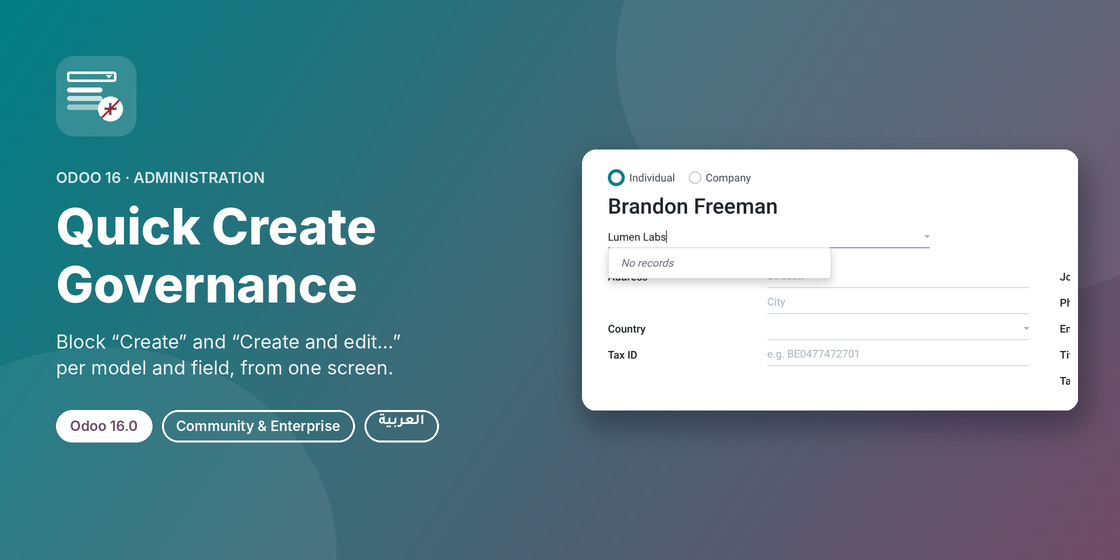
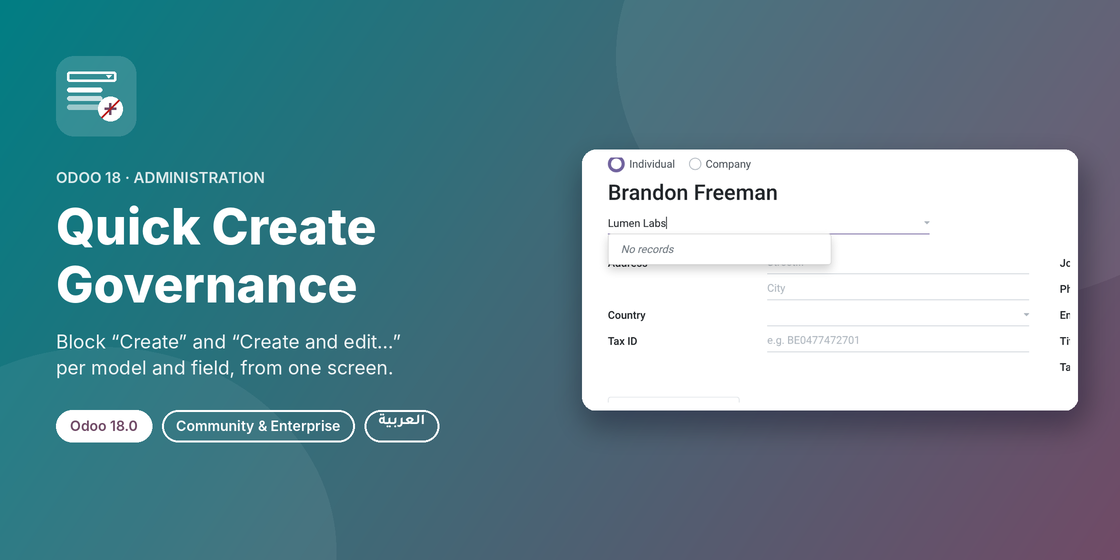
Add files via upload

diff --git a/quick_create_governance/static/description/index.html b/quick_create_governance/static/description/index.html
@@ -1,4 +1,4 @@
-<!-- Odoo Apps description page for quick_create_governance (Odoo 16.0). Inline styles only: apps.odoo.com strips <style> and <script> blocks. -->
+<!-- Odoo Apps description page for quick_create_governance (Odoo 18.0). Inline styles only: apps.odoo.com strips <style> and <script> blocks. -->
 <section style="max-width:1120px;margin:0 auto;padding:0 16px;font-family:-apple-system,BlinkMacSystemFont,'Segoe UI',Roboto,'Helvetica Neue',Arial,sans-serif;color:#2b2b33;">
 
 <!-- ============================== HERO ============================== -->
@@ -7,7 +7,7 @@
   <h1 style="font-size:40px;line-height:1.15;font-weight:700;margin:0 0 14px;color:#ffffff;">Quick Create Governance</h1>
   <p style="font-size:19px;line-height:1.55;max-width:760px;margin:0 0 24px;color:#ffffff;opacity:.95;">Decide from one screen where users may create records on the fly. Pick a model and its many2one / many2many fields, and the <b>Create</b> and <b>Create and edit...</b> options disappear from their dropdowns &ndash; no XML, no view inheritance, no Studio edits.</p>
   <div>
-    <span style="display:inline-block;border:1px solid rgba(255,255,255,.7);border-radius:20px;padding:6px 14px;margin:0 8px 8px 0;font-size:14px;">Odoo 16.0</span>
+    <span style="display:inline-block;border:1px solid rgba(255,255,255,.7);border-radius:20px;padding:6px 14px;margin:0 8px 8px 0;font-size:14px;">Odoo 18.0</span>
     <span style="display:inline-block;border:1px solid rgba(255,255,255,.7);border-radius:20px;padding:6px 14px;margin:0 8px 8px 0;font-size:14px;">Community &amp; Enterprise</span>
     <span style="display:inline-block;border:1px solid rgba(255,255,255,.7);border-radius:20px;padding:6px 14px;margin:0 8px 8px 0;font-size:14px;">19 automated tests</span>
     <span style="display:inline-block;border:1px solid rgba(255,255,255,.7);border-radius:20px;padding:6px 14px;margin:0 8px 8px 0;font-size:14px;">English &amp; العربية</span>
@@ -29,7 +29,7 @@
 <p style="font-size:16px;color:#555;margin:0 0 18px;">One typo in a dropdown and Odoo creates a duplicate company, tag or country. Standard Odoo can stop it, but only field by field, view by view.</p>
 <div style="display:flex;flex-wrap:wrap;margin:0 -10px;">
   <div style="flex:1 1 440px;margin:10px;border:1px solid #f1d6d6;background:#fff8f8;border-radius:14px;padding:24px 26px;">
-    <h3 style="font-size:19px;font-weight:700;color:#b33939;margin:0 0 12px;">In standard Odoo 16</h3>
+    <h3 style="font-size:19px;font-weight:700;color:#b33939;margin:0 0 12px;">In standard Odoo 18</h3>
     <ul style="font-size:15px;line-height:1.65;margin:0;padding-left:20px;color:#3a3a42;">
       <li>Blocking quick create means adding <b>no_create</b> / <b>no_create_edit</b> options in the <b>XML of each view</b>.</li>
       <li>The same field appears in <b>many views</b> (form, list, wizards, other apps); each needs its own inheritance.</li>
@@ -64,7 +64,7 @@
 
 <!-- ============================== FEATURES ============================== -->
 <h2 style="font-size:28px;font-weight:700;margin:40px 0 6px;color:#2b2b33;">Features</h2>
-<p style="font-size:16px;color:#555;margin:0 0 4px;">Screenshots use the module&rsquo;s demo data on a standard Odoo 16 database: three rules on <b>Contact</b> (Related Company + Tags, Salesperson, Country), one on <b>Companies</b>, and an archived rule on <b>Bank Accounts</b>.</p>
+<p style="font-size:16px;color:#555;margin:0 0 4px;">Screenshots use the module&rsquo;s demo data on a standard Odoo 18 database: three rules on <b>Contact</b> (Related Company + Tags, Salesperson, Country), one on <b>Companies</b>, and an archived rule on <b>Bank Accounts</b>.</p>
 
 <div style="margin:44px 0 0;">
   <div style="font-size:13px;font-weight:700;color:#017E84;letter-spacing:1px;text-transform:uppercase;">Menus</div>
@@ -138,8 +138,8 @@
 <div style="display:flex;flex-wrap:wrap;margin:0 -8px;font-size:15px;line-height:1.55;">
   <div style="flex:1 1 320px;margin:8px;padding:16px 18px;border:1px solid #e8e8ee;border-radius:12px;"><b>XML says no_create: False</b><br/><span style="color:#555;">The rule is applied after view options are read, so a governed field stays blocked.</span></div>
   <div style="flex:1 1 320px;margin:8px;padding:16px 18px;border:1px solid #e8e8ee;border-radius:12px;"><b>Studio-edited views</b><br/><span style="color:#555;">Enforcement lives in the field widgets, not in the view arch, so customised views are covered too.</span></div>
-  <div style="flex:1 1 320px;margin:8px;padding:16px 18px;border:1px solid #e8e8ee;border-radius:12px;"><b>Older (legacy) screens</b><br/><span style="color:#555;">Odoo 16 views not yet converted to OWL use the legacy many2one widget; it is governed by the same rules.</span></div>
-  <div style="flex:1 1 320px;margin:8px;padding:16px 18px;border:1px solid #e8e8ee;border-radius:12px;"><b>Only "Create and edit" blocked</b><br/><span style="color:#555;">Quick create stays, and the misleading "No records" line next to it is hidden.</span></div>
+  <div style="flex:1 1 320px;margin:8px;padding:16px 18px;border:1px solid #e8e8ee;border-radius:12px;"><b>"Search More..." on every match</b><br/><span style="color:#555;">Odoo 18 offers <b>Search More...</b> as soon as one record matches; on governed fields its dialog never shows <b>New</b>.</span></div>
+  <div style="flex:1 1 320px;margin:8px;padding:16px 18px;border:1px solid #e8e8ee;border-radius:12px;"><b>Only "Create and edit" blocked</b><br/><span style="color:#555;">Quick create stays; the full form, the dialog <b>New</b> button and many2many <b>Add a line</b> creation are removed.</span></div>
   <div style="flex:1 1 320px;margin:8px;padding:16px 18px;border:1px solid #e8e8ee;border-radius:12px;"><b>One2many fields</b><br/><span style="color:#555;">Never touched: they cannot be selected in a rule, so adding lines works as before.</span></div>
   <div style="flex:1 1 320px;margin:8px;padding:16px 18px;border:1px solid #e8e8ee;border-radius:12px;"><b>Uninstalled model or field</b><br/><span style="color:#555;">Rules on a deleted model are removed with it (cascade); dropped fields leave the rule automatically.</span></div>
   <div style="flex:1 1 320px;margin:8px;padding:16px 18px;border:1px solid #e8e8ee;border-radius:12px;"><b>Multi-worker servers</b><br/><span style="color:#555;">Saving, archiving or deleting a rule clears the compiled cache on every worker.</span></div>
@@ -166,12 +166,12 @@
 <p style="font-size:16px;color:#555;margin:0 0 18px;">For the people who install and maintain it.</p>
 <table style="width:100%;border-collapse:collapse;font-size:15px;">
   <tbody>
-    <tr style="border-bottom:1px solid #eee;"><td style="padding:10px 14px;width:240px;color:#777;">Odoo version</td><td style="padding:10px 14px;">16.0, Community and Enterprise</td></tr>
+    <tr style="border-bottom:1px solid #eee;"><td style="padding:10px 14px;width:240px;color:#777;">Odoo version</td><td style="padding:10px 14px;">18.0, Community and Enterprise</td></tr>
     <tr style="border-bottom:1px solid #eee;background:#fafafa;"><td style="padding:10px 14px;width:240px;color:#777;">Depends on</td><td style="padding:10px 14px;"><code>base</code>, <code>web</code></td></tr>
     <tr style="border-bottom:1px solid #eee;"><td style="padding:10px 14px;width:240px;color:#777;">Python dependency</td><td style="padding:10px 14px;">None</td></tr>
     <tr style="border-bottom:1px solid #eee;background:#fafafa;"><td style="padding:10px 14px;width:240px;color:#777;">Menus</td><td style="padding:10px 14px;">Settings &rsaquo; Users &amp; Companies &rsaquo; Quick Create Governance</td></tr>
     <tr style="border-bottom:1px solid #eee;"><td style="padding:10px 14px;width:240px;color:#777;">Models</td><td style="padding:10px 14px;"><code>quick.create.rule</code>; extends <code>ir.http</code> (session info)</td></tr>
-    <tr style="border-bottom:1px solid #eee;background:#fafafa;"><td style="padding:10px 14px;width:240px;color:#777;">Front end</td><td style="padding:10px 14px;">Patches <code>Many2OneField</code>, <code>Many2ManyTagsField</code>, <code>X2ManyField</code> (many2many), <code>Many2XAutocomplete</code> and the legacy <code>FieldMany2One</code></td></tr>
+    <tr style="border-bottom:1px solid #eee;background:#fafafa;"><td style="padding:10px 14px;width:240px;color:#777;">Front end</td><td style="padding:10px 14px;">Patches <code>Many2OneField</code>, <code>Many2ManyTagsField</code>, <code>X2ManyField</code> (many2many), <code>Many2XAutocomplete</code> (Odoo 18 <code>patch()</code> API)</td></tr>
     <tr style="border-bottom:1px solid #eee;"><td style="padding:10px 14px;width:240px;color:#777;">Performance</td><td style="padding:10px 14px;">Rules compiled once per group set (ORM cache), shipped in <code>session_info</code>; per-field check is an in-memory lookup</td></tr>
     <tr style="border-bottom:1px solid #eee;background:#fafafa;"><td style="padding:10px 14px;width:240px;color:#777;">Languages</td><td style="padding:10px 14px;">English, Arabic (<code>i18n/ar.po</code>), <code>.pot</code> template included</td></tr>
     <tr style="border-bottom:1px solid #eee;"><td style="padding:10px 14px;width:240px;color:#777;">Automated tests</td><td style="padding:10px 14px;">19: 16 unit tests (compilation, merging, exemptions, constraints, cache invalidation, zero-query warm cache) and 3 HTTP tests (session payload + 2 browser tours, including a latency budget)</td></tr>

diff --git a/quick_create_governance/static/tests/tours/quick_create_tours.js b/quick_create_governance/static/tests/tours/quick_create_tours.js
@@ -1,6 +1,6 @@
 /** @odoo-module **/
 
-import tour from "web_tour.tour";
+import { registry } from "@web/core/registry";
 
 /*
  * Data and rules are created by tests/test_ui.py. The test form view shows:
@@ -25,14 +25,14 @@ const latencyStep = {
     content: "Restriction lookup has no measurable latency",
     trigger: ".o_form_view",
     run() {
-        const registry = odoo.__DEBUG__.services[REGISTRY_MODULE];
-        if (!registry) {
+        const lookup = odoo.loader.modules.get(REGISTRY_MODULE);
+        if (!lookup) {
             console.error(`${REGISTRY_MODULE} is not loaded`);
             return;
         }
         const start = performance.now();
         for (let i = 0; i < LOOKUPS; i++) {
-            registry.getQuickCreateRestriction("res.partner", i % 2 ? "parent_id" : "title");
+            lookup.getQuickCreateRestriction("res.partner", i % 2 ? "parent_id" : "title");
         }
         const elapsed = performance.now() - start;
         if (elapsed > LATENCY_BUDGET_MS) {
@@ -47,7 +47,7 @@ function typeIn(name, text) {
     return {
         content: `Type "${text}" in ${name}`,
         trigger: `${field(name)} input`,
-        run: `text ${text}`,
+        run: `edit ${text}`,
     };
 }
 
@@ -58,14 +58,12 @@ function noCreationOptions(name) {
     );
 }
 
-tour.register(
-    "quick_create_governance_restricted",
-    { test: true },
-    [
+registry.category("web_tour.tours").add("quick_create_governance_restricted", {
+    steps: () => [
         {
             content: "Form is ready",
             trigger: `${field("name")} input`,
-            run: "text QCR Tour Partner",
+            run: "edit QCR Tour Partner",
         },
         latencyStep,
 
@@ -79,6 +77,7 @@ tour.register(
         {
             content: "Open Search More",
             trigger: `${dropdown("parent_id")} .o_m2o_dropdown_option_search_more`,
+            run: "click",
         },
         check("Dialog list is loaded", ".modal .o_list_view .o_data_row"),
         check(
@@ -88,6 +87,7 @@ tour.register(
         {
             content: "Close the dialog",
             trigger: ".modal .modal-footer .o_form_button_cancel",
+            run: "click",
         },
         check("Dialog closed", "body:not(:has(.modal .o_list_view))"),
 
@@ -113,17 +113,15 @@ tour.register(
             "user_id: no Create and edit, no misleading 'No records'",
             `${dropdown("user_id")}:not(:has(.o_m2o_dropdown_option_create_edit)):not(:has(.o_m2o_no_result))`
         ),
-    ]
-);
+    ],
+});
 
-tour.register(
-    "quick_create_governance_exempt",
-    { test: true },
-    [
+registry.category("web_tour.tours").add("quick_create_governance_exempt", {
+    steps: () => [
         {
             content: "Form is ready",
             trigger: `${field("name")} input`,
-            run: "text QCR Exempt Partner",
+            run: "edit QCR Exempt Partner",
         },
         typeIn("parent_id", "QCR Nomatch"),
         check("Exempt user: Create available", `${dropdown("parent_id")} .o_m2o_dropdown_option_create`),
@@ -131,5 +129,5 @@ tour.register(
             "Exempt user: Create and edit available",
             `${dropdown("parent_id")} .o_m2o_dropdown_option_create_edit`
         ),
-    ]
-);
+    ],
+});

diff --git a/quick_create_governance/static/src/js/many2x_autocomplete_patch.js b/quick_create_governance/static/src/js/many2x_autocomplete_patch.js
@@ -7,6 +7,7 @@
  * entry survives in the dropdown, whatever a subclass passed as props.
  * Ungoverned widgets (no marker) are returned untouched.
  */
+import { _t } from "@web/core/l10n/translation";
 import { patch } from "@web/core/utils/patch";
 import { Many2XAutocomplete } from "@web/views/fields/relational_utils";
 
@@ -19,9 +20,9 @@ function hasClass(option, cls) {
     return typeof option.classList === "string" && option.classList.split(/\s+/).includes(cls);
 }
 
-patch(Many2XAutocomplete.prototype, "quick_create_governance.Many2XAutocomplete", {
+patch(Many2XAutocomplete.prototype, {
     async loadOptionsSource(request) {
-        const options = await this._super(...arguments);
+        const options = await super.loadOptionsSource(...arguments);
         const restriction = this.props.activeActions && this.props.activeActions.qcgRestriction;
         if (!restriction) {
             return options;
@@ -39,8 +40,8 @@ patch(Many2XAutocomplete.prototype, "quick_create_governance.Many2XAutocomplete"
             (o) => hasClass(o, CREATE_CLASS) || hasClass(o, CREATE_EDIT_CLASS)
         );
         if (canStillCreate) {
-            // Only "Create and edit" was blocked: activeActions.create is false,
-            // which makes core add a misleading "No records" next to "Create".
+            // A creation entry survives (e.g. only "Create and edit" blocked):
+            // never show "No records" next to it.
             result = result.filter((o) => !hasClass(o, NO_RESULT_CLASS));
         } else {
             // Nothing can be created any more: "Start typing..." is pointless.
@@ -48,7 +49,7 @@ patch(Many2XAutocomplete.prototype, "quick_create_governance.Many2XAutocomplete"
             const hasRecords = result.some((o) => !o.action && !o.unselectable);
             if (request.length && !hasRecords && !result.some((o) => hasClass(o, NO_RESULT_CLASS))) {
                 result.push({
-                    label: this.env._t("No records"),
+                    label: _t("No records"),
                     classList: NO_RESULT_CLASS,
                     unselectable: true,
                 });

diff --git a/quick_create_governance/static/src/js/many2one_patch.js b/quick_create_governance/static/src/js/many2one_patch.js
@@ -7,7 +7,7 @@
  *
  * The restriction is resolved once in setup() (resModel + field name never
  * change for a mounted field) and applied each time core recomputes the
- * active actions, i.e. AFTER the XML options (no_create, no_create_edit,
+ * active actions, i.e. AFTER the view options (no_create, no_create_edit,
  * no_quick_create, can_create) have been evaluated: governance can only
  * remove capabilities, never re-grant them.
  */
@@ -15,12 +15,12 @@ import { patch } from "@web/core/utils/patch";
 import { Many2OneField } from "@web/views/fields/many2one/many2one_field";
 import { getQuickCreateRestriction } from "./restriction_registry";
 
-patch(Many2OneField.prototype, "quick_create_governance.Many2OneField", {
+patch(Many2OneField.prototype, {
     setup() {
         const record = this.props.record;
         // Must be known before super.setup(), which calls computeActiveActions().
         this.qcgRestriction = record ? getQuickCreateRestriction(record.resModel, this.props.name) : null;
-        this._super(...arguments);
+        super.setup(...arguments);
         if (this.qcgRestriction && this.qcgRestriction.create) {
             // Many2XAutocomplete only offers "Create <text>" when it gets a quickCreate callback.
             this.quickCreate = null;
@@ -28,7 +28,7 @@ patch(Many2OneField.prototype, "quick_create_governance.Many2OneField", {
     },
 
     computeActiveActions(props) {
-        this._super(...arguments);
+        super.computeActiveActions(...arguments);
         const restriction = this.qcgRestriction;
         if (!restriction) {
             return;
@@ -47,6 +47,6 @@ patch(Many2OneField.prototype, "quick_create_governance.Many2OneField", {
         if (this.qcgRestriction && this.qcgRestriction.create) {
             return;
         }
-        return this._super(...arguments);
+        return super.openConfirmationDialog(...arguments);
     },
 });

diff --git a/quick_create_governance/static/src/js/many2many_tags_patch.js b/quick_create_governance/static/src/js/many2many_tags_patch.js
@@ -11,9 +11,9 @@ import { patch } from "@web/core/utils/patch";
 import { Many2ManyTagsField } from "@web/views/fields/many2many_tags/many2many_tags_field";
 import { getQuickCreateRestriction } from "./restriction_registry";
 
-patch(Many2ManyTagsField.prototype, "quick_create_governance.Many2ManyTagsField", {
+patch(Many2ManyTagsField.prototype, {
     setup() {
-        this._super(...arguments);
+        super.setup(...arguments);
         const record = this.props.record;
         this.qcgRestriction = record ? getQuickCreateRestriction(record.resModel, this.props.name) : null;
         if (!this.qcgRestriction) {
@@ -28,7 +28,7 @@ patch(Many2ManyTagsField.prototype, "quick_create_governance.Many2ManyTagsField"
 
     _qcgApply() {
         const activeActions = this.activeActions;
-        // Native "can create" (XML options, create="..." domain, readonly), before governance.
+        // Native "can create" (view options, create="..." domain, readonly), before governance.
         this.qcgNativeCreate = Boolean(activeActions.create);
         if (this.qcgRestriction.createEdit) {
             activeActions.create = false;

diff --git a/quick_create_governance/static/src/js/x2many_patch.js b/quick_create_governance/static/src/js/x2many_patch.js
@@ -11,9 +11,9 @@ import { patch } from "@web/core/utils/patch";
 import { X2ManyField } from "@web/views/fields/x2many/x2many_field";
 import { getQuickCreateRestriction } from "./restriction_registry";
 
-patch(X2ManyField.prototype, "quick_create_governance.X2ManyField", {
+patch(X2ManyField.prototype, {
     setup() {
-        this._super(...arguments);
+        super.setup(...arguments);
         if (!this.isMany2Many || !this.props.record) {
             return;
         }

diff --git a/quick_create_governance/__manifest__.py b/quick_create_governance/__manifest__.py
@@ -1,7 +1,7 @@
 # -*- coding: utf-8 -*-
 {
     "name": "Quick Create Governance",
-    "version": "16.0.1.0.1",
+    "version": "18.0.1.0.0",
     "summary": "Centrally block 'Create' / 'Create and edit...' on chosen models and "
                "relational fields, with session-cached rules and zero runtime RPC.",
     "description": """
@@ -21,8 +21,7 @@ relational fields (many2one / many2many) users may create records on the fly.
 * Enforcement is purely subtractive: restricted fields lose creation
   options whatever the XML / Studio options say, unconfigured fields keep
   native behaviour (including their own no_create / no_create_edit options).
-* Works with Community and Enterprise (OWL fields, plus the legacy
-  many2one widget still used by some v16 legacy views).
+* Works with Community and Enterprise (OWL relational fields).
 """,
     "author": "Ibrahim Yahia",
     "website": "https://www.linkedin.com/in/ibrahim-yahia",
@@ -44,7 +43,6 @@ relational fields (many2one / many2many) users may create records on the fly.
             "quick_create_governance/static/src/js/many2one_patch.js",
             "quick_create_governance/static/src/js/many2many_tags_patch.js",
             "quick_create_governance/static/src/js/x2many_patch.js",
-            "quick_create_governance/static/src/js/legacy_many2one_patch.js",
             "quick_create_governance/static/src/xml/many2many_tags.xml",
         ],
         "web.assets_tests": [

diff --git a/quick_create_governance/models/quick_create_rule.py b/quick_create_governance/models/quick_create_rule.py
@@ -131,23 +131,23 @@ class QuickCreateRule(models.Model):
     @api.model_create_multi
     def create(self, vals_list):
         records = super().create(vals_list)
-        self.clear_caches()
+        self.env.registry.clear_cache()
         return records
 
     def write(self, vals):
         res = super().write(vals)
-        self.clear_caches()
+        self.env.registry.clear_cache()
         return res
 
     def unlink(self):
         res = super().unlink()
-        self.clear_caches()
+        self.env.registry.clear_cache()
         return res
 
     def action_reload_client(self):
         """Rules reach a user's browser on the next page load; this reloads
         the current admin's web client so the change is visible at once."""
-        self.clear_caches()
+        self.env.registry.clear_cache()
         return {"type": "ir.actions.client", "tag": "reload"}
 
     # ------------------------------------------------------------------

diff --git a/quick_create_governance/tests/test_ui.py b/quick_create_governance/tests/test_ui.py
@@ -18,7 +18,7 @@ class TestQuickCreateGovernanceUi(HttpCase):
         Rule = env["quick.create.rule"]
         # Isolate from pre-existing (e.g. demo) rules; rolled back after the class.
         Rule.search([]).write({"active": False})
-        Rule.clear_caches()
+        env.registry.clear_cache()
         cls.partner_model = env["ir.model"]._get("res.partner")
         fields = {
             name: env["ir.model.fields"]._get("res.partner", name)
@@ -71,11 +71,11 @@ class TestQuickCreateGovernanceUi(HttpCase):
             "block_quick_create": False,
             "block_create_edit": True,
         })
-        cls.url = "/web#action=%d&model=res.partner&view_type=form" % cls.action.id
+        cls.url = "/odoo/action-%d/new" % cls.action.id
 
     @classmethod
     def tearDownClass(cls):
-        cls.env["quick.create.rule"].clear_caches()
+        cls.env.registry.clear_cache()
         super().tearDownClass()
 
     def _session_info(self):

diff --git a/quick_create_governance/tests/test_quick_create_rule.py b/quick_create_governance/tests/test_quick_create_rule.py
@@ -30,8 +30,8 @@ class TestQuickCreateRule(TransactionCase):
     def setUp(self):
         super().setUp()
         # ormcache survives the test-transaction rollback: start and end clean.
-        self.Rule.clear_caches()
-        self.addCleanup(self.Rule.clear_caches)
+        self.env.registry.clear_cache()
+        self.addCleanup(self.env.registry.clear_cache)
 
     # helpers -----------------------------------------------------------
     def _rule(self, fields=(), **vals):

diff --git a/quick_create_governance/README.md b/quick_create_governance/README.md
@@ -1,4 +1,4 @@
-# Quick Create Governance (Odoo 16, Community & Enterprise)
+# Quick Create Governance (Odoo 18, Community & Enterprise)
 
 Centrally remove **Create** and/or **Create and edit...** from many2one / many2many
 widgets, per model and per field.
@@ -28,7 +28,6 @@ Rules reach users at login / page reload (use **Apply Now (Reload)** to refresh 
    * `Many2OneField` (+ every subclass: avatar, partner, list/kanban m2o, Studio...)
    * `Many2ManyTagsField` (+ subclasses) and many2many `X2ManyField` dialogs
    * `Many2XAutocomplete` safety net (filters any creation entry still present)
-   * legacy `FieldMany2One` (views not yet converted to OWL in v16)
 
 Governance is subtractive only: it never re-enables creation that the view
 (`no_create`, `no_create_edit`, `no_quick_create`, `can_create`, Studio) disabled,
